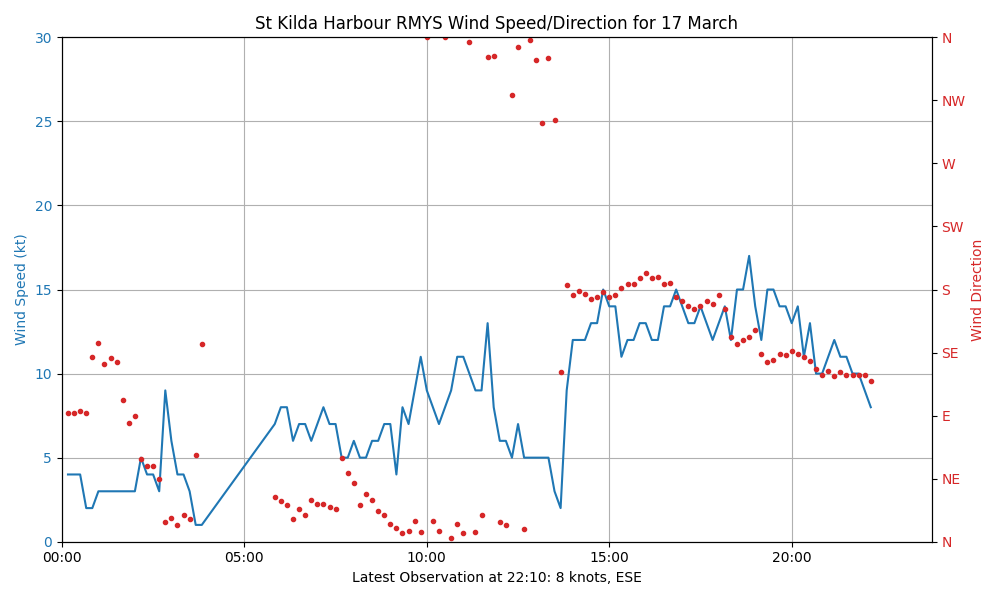
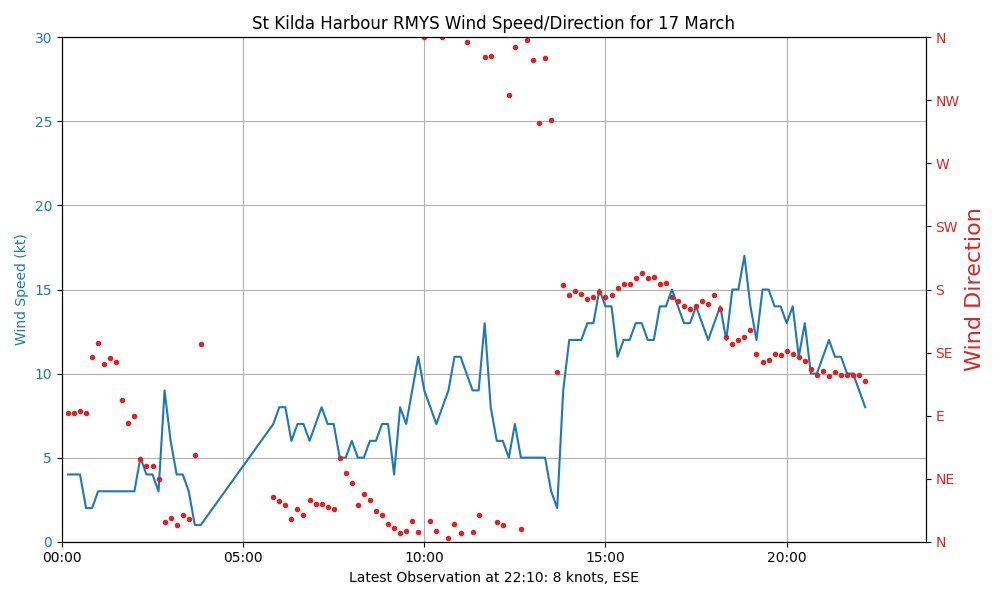
chart update

diff --git a/graph48.py b/graph48.py
@@ -100,7 +100,7 @@ def generate_and_save_plot(data, save_dir):
         # Create a secondary y-axis for wind direction
         ax2 = ax1.twinx()
         color = 'tab:red'
-        ax2.set_ylabel('Wind Direction', color=color)
+        ax2.set_ylabel('Wind Direction', color=color, fontsize=16)
         ax2.plot(df['Time'], df['Wind Direction (degrees)'], marker='.', linestyle='', color=color)
         ax2.tick_params(axis='y', labelcolor=color)
 
